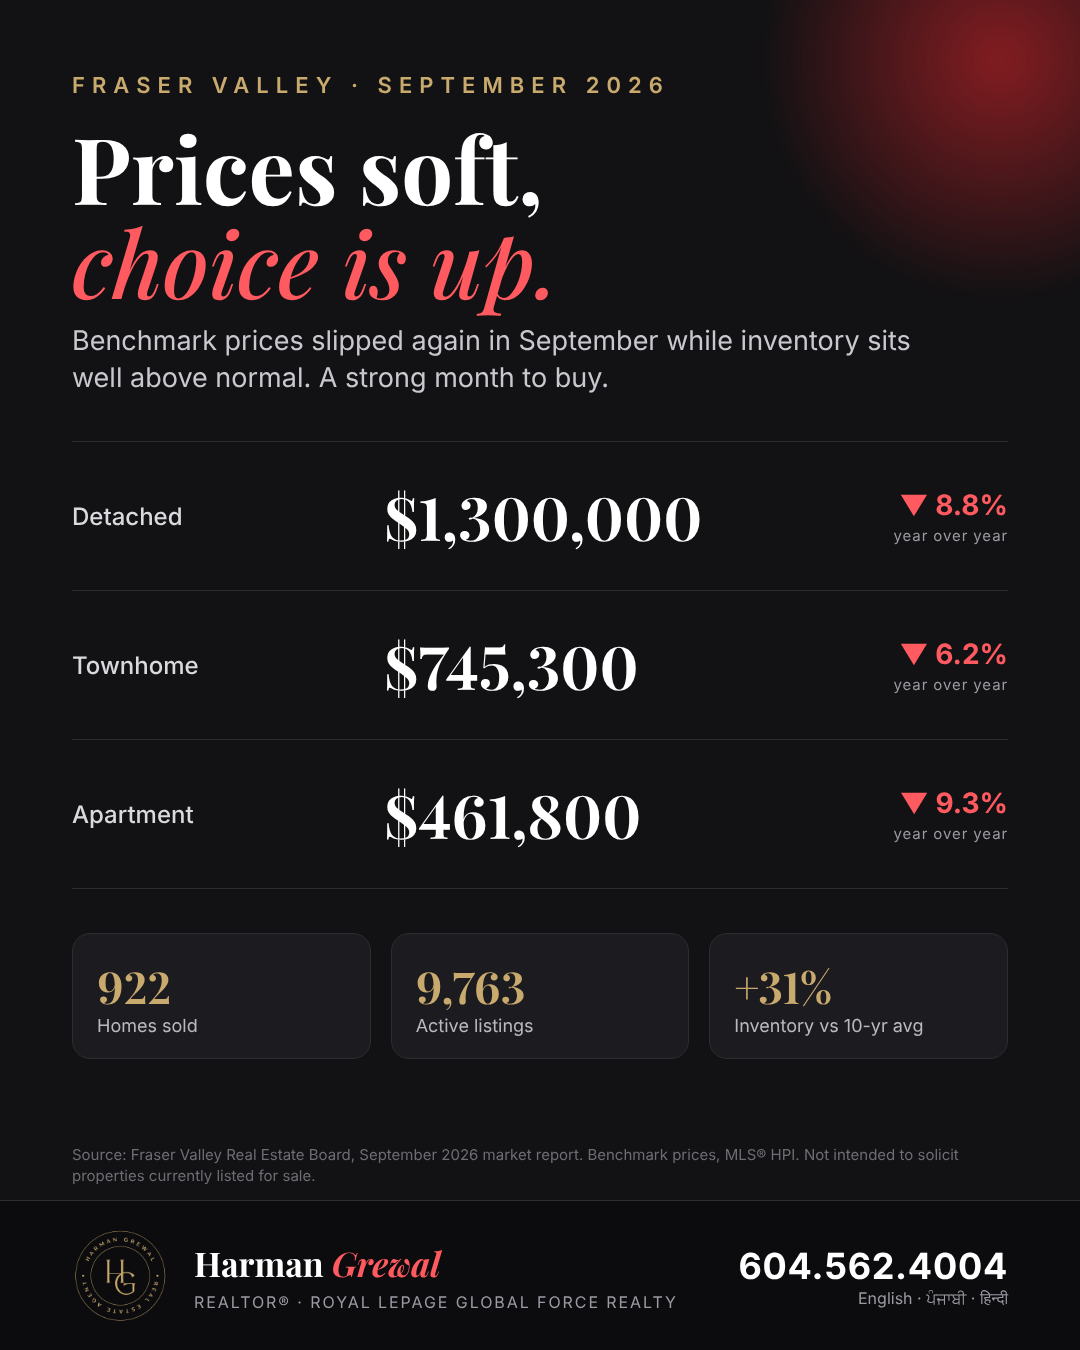
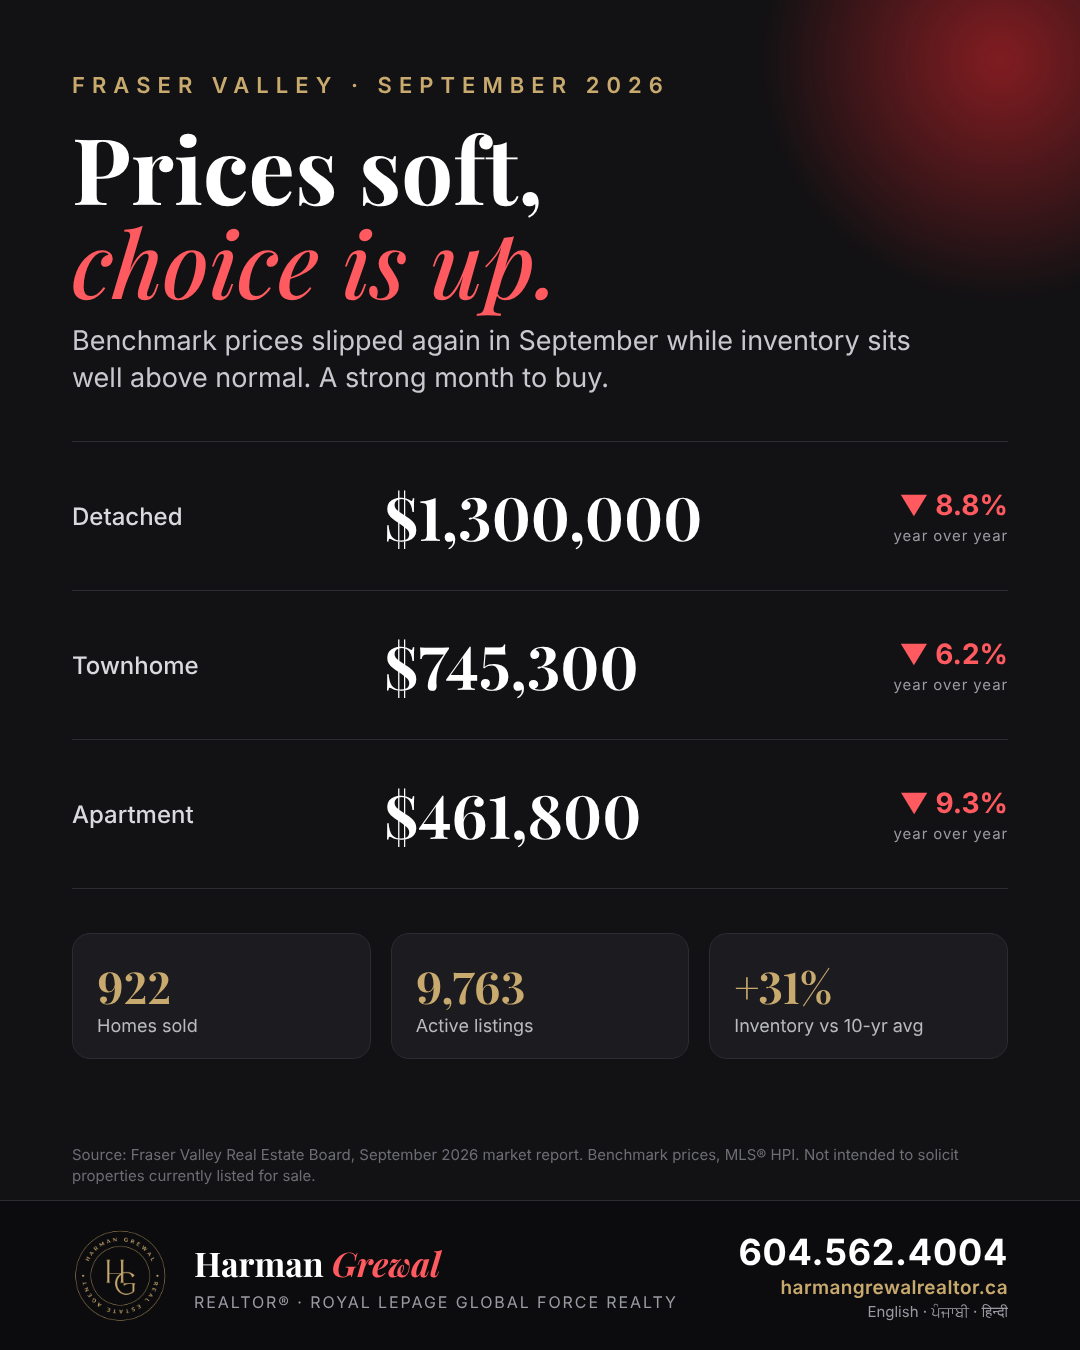
Use harmangrewalrealtor.ca in post footers and captions
Claude-Session: https://claude.ai/code/session_0184XT28azMcay5Aaqo5fch5

Changed region(s): [[0.6722, 0.9022, 0.9472, 0.9956]]

diff --git a/generator/gen/build.py b/generator/gen/build.py
@@ -34,7 +34,8 @@ body {{ font-variant-numeric:lining-nums; font-family:'Inter',sans-serif; color:
 .foot .sub {{ font-size:16px; letter-spacing:.12em; white-space:nowrap; text-transform:uppercase; color:var(--mute); margin-top:6px; }}
 .foot .ph {{ text-align:right; }}
 .foot .ph b {{ display:block; font-size:36px; font-weight:700; letter-spacing:.02em; }}
-.foot .ph span {{ font-size:16px; color:var(--mute); }}
+.foot .ph em {{ display:block; font-style:normal; font-size:19px; font-weight:600; color:var(--gold); letter-spacing:.02em; margin:2px 0; }}
+.foot .ph span {{ font-size:15px; color:var(--mute); }}
 .src {{ position:absolute; left:72px; right:72px; bottom:164px; font-size:15px; color:#6d6d75; line-height:1.4; }}
 """
 
@@ -43,7 +44,7 @@ def footer():
   <img class="logo" src="{ASSETS}/hg_gold_t.png">
   <div class="who"><div class="name">Harman <i>Grewal</i></div>
     <div class="sub">Realtor® · Royal LePage Global Force Realty</div></div>
-  <div class="ph"><b>604.562.4004</b><span>English · ਪੰਜਾਬੀ · हिन्दी</span></div>
+  <div class="ph"><b>604.562.4004</b><em>harmangrewalrealtor.ca</em><span>English · ਪੰਜਾਬੀ · हिन्दी</span></div>
 </div>"""
 
 def chg(v):

diff --git a/posts/2026-10/captions.md b/posts/2026-10/captions.md
@@ -19,6 +19,7 @@ What it means: if you've been waiting on the sidelines in Surrey, Langley or Nor
 
 ਪੰਜਾਬੀ ਅਤੇ ਹਿੰਦੀ ਵਿੱਚ ਵੀ ਸੇਵਾ ਉਪਲਬਧ।
 
+🌐 www.harmangrewalrealtor.ca
 Harman Grewal, REALTOR® · Royal LePage Global Force Realty
 Source: Fraser Valley Real Estate Board
 
@@ -41,6 +42,7 @@ For buyers, that means more choice and real room to negotiate. For sellers, pric
 
 Thinking about a move in Surrey? Call or text 604.562.4004 and I'll send you the numbers for your exact neighbourhood.
 
+🌐 www.harmangrewalrealtor.ca
 Harman Grewal, REALTOR® · Royal LePage Global Force Realty
 Source: Fraser Valley Real Estate Board
 
@@ -61,6 +63,7 @@ Benchmark prices (City + Township):
 
 Townhomes in areas like Willoughby and Walnut Grove are a popular choice for growing families. Want a list of what's available in your price range? DM me or call 604.562.4004.
 
+🌐 www.harmangrewalrealtor.ca
 Harman Grewal, REALTOR® · Royal LePage Global Force Realty
 Source: Fraser Valley Real Estate Board
 
@@ -83,6 +86,7 @@ The standout: a detached home in North Delta benchmarks about $225,000 below Sur
 
 Call or text 604.562.4004 for a tour of what's on the market right now.
 
+🌐 www.harmangrewalrealtor.ca
 Harman Grewal, REALTOR® · Royal LePage Global Force Realty
 Source: Fraser Valley Real Estate Board
 
@@ -101,6 +105,7 @@ Today's detached benchmark is $1,300,000, and active listings are 31% above the 
 If you were priced out in 2022, it's worth running the numbers again. Send me a message with your budget and the area you like (Surrey, Langley or Delta) and I'll show you what's realistically available.
 
 📞 604.562.4004
+🌐 www.harmangrewalrealtor.ca
 Harman Grewal, REALTOR® · Royal LePage Global Force Realty
 
 #FraserValleyRealEstate #SurreyRealEstate #LangleyRealEstate #DeltaBC #HomeBuyingTips #FirstTimeHomeBuyer #BCRealEstate #RoyalLePage
@@ -123,7 +128,7 @@ I work in English, ਪੰਜਾਬੀ and हिन्दी.
 
 📞 604.562.4004
 ✉ harman.grewal.realtor@gmail.com
-🌐 harmangrewal.royallepage.ca
+🌐 www.harmangrewalrealtor.ca
 
 #SurreyRealtor #LangleyRealtor #DeltaRealtor #PunjabiRealtor #SurreyRealEstate #RoyalLePage #RealEstateAgent #FraserValley
 

diff --git a/posts/test/captions.md b/posts/test/captions.md
@@ -20,6 +20,7 @@ Want help negotiating your next home? DM me "BUY" or call 604.562.4004.
 
 ਪੰਜਾਬੀ ਅਤੇ ਹਿੰਦੀ ਵਿੱਚ ਵੀ ਸੇਵਾ ਉਪਲਬਧ।
 
+🌐 www.harmangrewalrealtor.ca
 Harman Grewal, REALTOR® · Royal LePage Global Force Realty
 
 #SurreyRealEstate #LangleyRealEstate #DeltaBC #HomeBuyingTips #FirstTimeHomeBuyer #BuyersMarket #FraserValley #RoyalLePage
